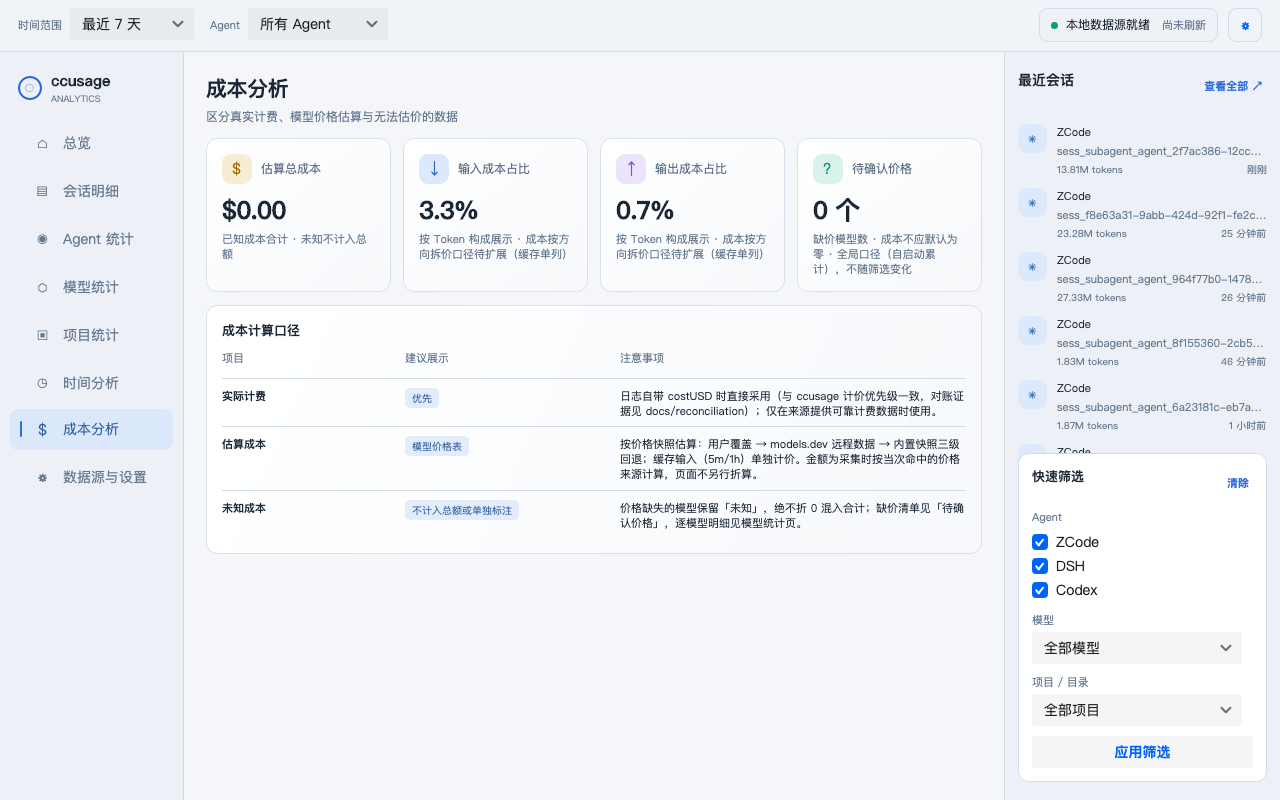
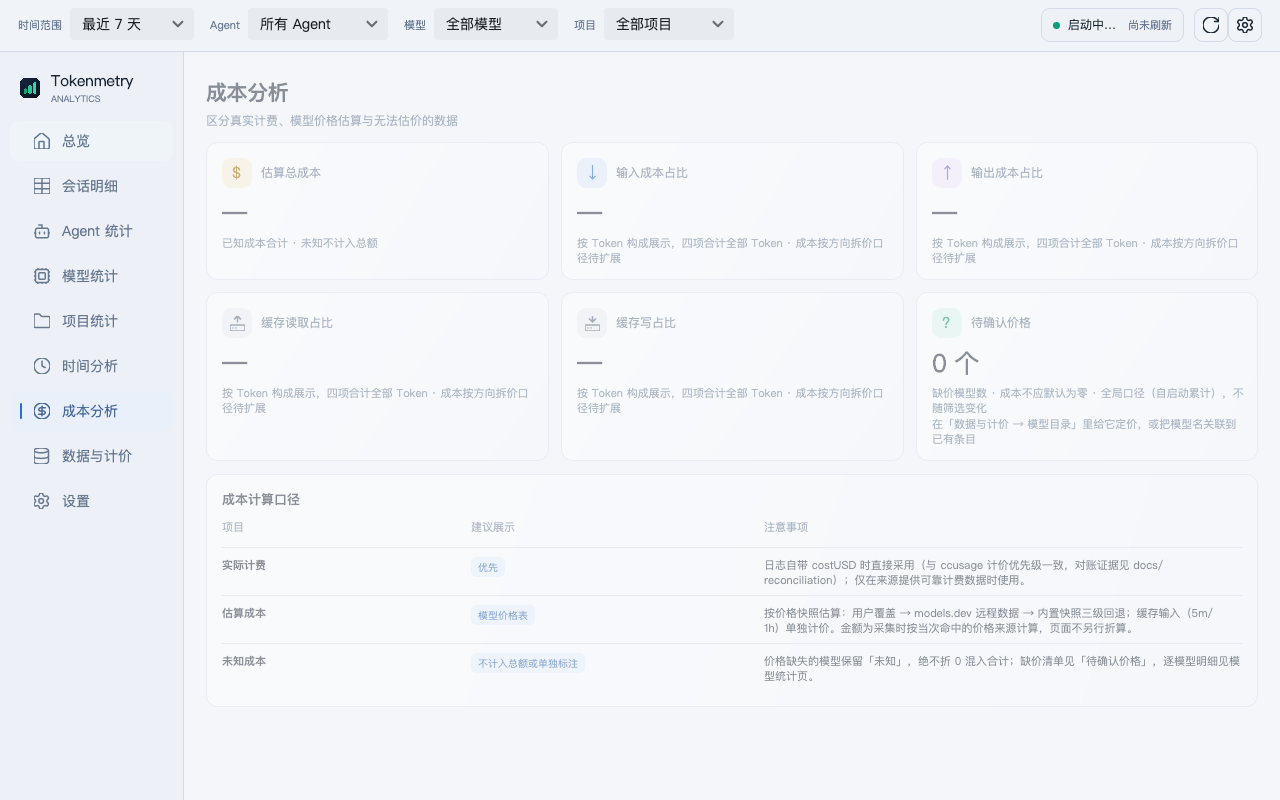
fix: 成本分析页 KPI 六卡改两排三列——单排挤压、首卡标题溢出（Q-007 修正项 1）
用户目检截图反馈：六卡单排太挤，第一张（估算总成本）标题文字超出卡外——1180px
窗口下单排六列卡宽仅 ≈179px，放不下「Estimated total cost」加图标。

- KPI 行改两排三列（RowDefinitions="Auto,Auto" ColumnDefinitions="*,*,*"
  + RowSpacing=12）：第一排 = 估算总成本 + 输入/输出占比，第二排 = 缓存读/写占比 +
  待确认价格；卡宽 ≈179px → ≈370px。数据与口径零变化，纯布局调整；
- 几何契约测试 Cost_kpi_cards_lay_out_in_two_rows_of_three 锁两排三列（Y 两簇 /
  每行 3 卡 / 行内三列 / 第二排在第一排之下 / 卡宽 ≥240——单排回归必跌破）；
- 留档截图 cost-light/dark.png 重生成（time 两张随同一测试顺带刷新为当前 UI 态）。
  踩坑：D-013 记录的 TOKENMETRY_TIMECOST_PREVIEW_DIR 相对路径落在 testhost bin
  目录（testhost cwd ≠ 仓库根），重生成须用绝对路径。

验证：headless TimeCostPagesTests 17/17；全量 1454 Passed / 0 Failed（22 跳过）；
真机观感移交用户。

diff --git a/tests/Tokenmetry.App.Headless.Tests/Shell/TimeCostPagesTests.cs b/tests/Tokenmetry.App.Headless.Tests/Shell/TimeCostPagesTests.cs
@@ -469,6 +469,41 @@ public class TimeCostPagesTests
     }
 
     [AvaloniaFact]
+    public void Cost_kpi_cards_lay_out_in_two_rows_of_three()
+    {
+        // Q-007 修正项 1：单排六列挤压（1180px 窗口卡宽 ≈179px，首卡标题溢出）→ 两排三列。
+        // 几何契约：六卡、Y 顶点聚成两行、每行 3 卡且行内 X 互异、第二排在第一排之下、卡宽不小于
+        // 三列布局下限（≈370px，单排回归时必跌破 240）。
+        var host = CreateCostHost();
+        var window = new Window { Width = 1180, Height = 860, Content = new CostAnalysisView { DataContext = host.Vm } };
+        window.Show();
+        Dispatcher.UIThread.RunJobs();
+        Avalonia.Headless.AvaloniaHeadlessPlatform.ForceRenderTimerTick();
+
+        var bounds = window.GetVisualDescendants().OfType<Border>()
+            .Where(b => b.Classes.Contains("kpi"))
+            .Select(b => b.Bounds)
+            .ToList();
+        Assert.Equal(6, bounds.Count);
+
+        var tops = bounds.Select(b => b.Top).Distinct().OrderBy(t => t).ToList();
+        Assert.Equal(2, tops.Count); // 两行
+        foreach (var top in tops)
+        {
+            var row = bounds.Where(b => b.Top == top).ToList();
+            Assert.Equal(3, row.Count); // 每行 3 卡
+            Assert.Equal(3, row.Select(b => b.Left).Distinct().Count()); // 行内三列
+        }
+
+        var firstRowBottom = bounds.Where(b => b.Top == tops[0]).Max(b => b.Bottom);
+        Assert.True(tops[1] >= firstRowBottom); // 第二排在第一排之下
+        Assert.All(bounds, b => Assert.True(b.Width >= 240, $"kpi 卡宽 {b.Width} 过窄，疑似回归单排布局"));
+
+        window.Close();
+        Dispatcher.UIThread.RunJobs();
+    }
+
+    [AvaloniaFact]
     public void Cost_kpi_follows_aggregated_cost_four_states()
     {
         // (null,true) 全未知 → 「未知」+ 全未知说明（绝不折 0）

diff --git a/docs/kanban/board.md b/docs/kanban/board.md
@@ -17,6 +17,8 @@ Moving a card means updating its row here and `status` in the issue file in the 
 | B-015 | 计价页价格输入固定 InvariantCulture——de-DE 逗号小数输入必被拒 | P3 | S | | |
 | D-017 | 右栏撤除 + 顶栏四维全局筛选 + 会话行元数据升级 | P1 | 2026-10-18 | | |
 
+> 2026-10-24（晚二）：**Q-007 修正项 1——KPI 六卡改两排三列**。用户目检截图反馈单排六卡太挤、首卡（估算总成本）标题溢出卡外。修法：KPI 行 `RowDefinitions="Auto,Auto" ColumnDefinitions="*,*,*"` + RowSpacing=12（第一排 = 总成本 + 输入/输出，第二排 = 缓存读/写 + 待确认价格），1180px 窗口卡宽 ≈179px → ≈370px；几何契约测试锁两排三列（Y 两簇 / 每行 3 卡 / 卡宽 ≥240 防单排回归）。留档截图 cost 明暗重生成（time 两张随同一测试顺带刷新；踩坑：D-013 记的相对路径落 testhost bin 目录，须绝对路径）。headless 17/17，全量见下。真机观感移交用户。
+
 > 2026-10-24（晚）：**Q-007 成本分析页补缓存读/写占比卡收口**。用户反馈「输入成本占比 2.8% + 输出成本占比 0.6% 加不满 100%」——取证：两卡是 Token 构成口径（D-013 方案 b），分母 Σ TotalTokens 含缓存读/写而分子没有，数字本身没错、展示不自洽。修法把「缓存单列说明」升级为「单列成卡」：CostViewModel 占比扩为四元（CreateCompositionShares，分子 ΣInput / ΣOutput / ΣCacheRead / ΣCacheCreation 合计 = 分母），KPI 行 4 卡 → 6 卡（缓存读/写 Neutral 芯 + 新 lucide hard-drive-upload/download 几何，方向相对盘体与输入 ↓ / 输出 ↑ 同构），脚注去「（缓存单列）」过时括注、改「四项合计全部 Token」（F1 舍入 ±0.2pp 不写死 100.0%）。TDD：四项断言编译 RED → GREEN，无基数 "—" 与渲染可见性随补；全量 1452 Passed / 0 Failed（22 跳过）。**并发注记**：与 I-040 修正项 2（PathIcon 居中）同工作区并行——两个新图标几何随其提交（6e3c8e9）落地；其收尾一度把本卡实现文件扫入后 amend 剔除，本卡实现最终独立成提交（卡内如实登记经过）；明暗目检移交用户。
 
 > 2026-10-24：**Q-006 页面滚动面贴窗口边缘收口**。用户反馈（Q-005 验收后）"滚动条总是贴不住最右边"——取证：滚动条贴视口缘无任何空隙（模板查证 + Q-004 headless 契约），22px 空隙唯一来源是 PageHost `Margin="22,22,22,30"` 把页面根 ScrollViewer 整体推入，视口够不到窗口缘；属 Q-004"贴视口"语义与用户"贴窗口"预期的偏差，非回归。修法（macOS 式滚动面语义）：PageHost 外边距归零，滚动面铺满主内容列，页面留白由根滚动面自持——新共享类 `ScrollViewer.page-root`（Padding=22,22,22,30 单一出处；Semi 模板查证透传 Padding 给 presenter、不影响滚动条位置）挂 8 个页面根 SV；会话页无页面级滚动面，头尾/面板逐边自补（列表滚动条贴卡内缘属有意设计）。滑条纵向全程覆盖顶栏底→窗底、横向条贴底缘。TDD：PageScrollEdgeTests 真实 MainWindow 契约，RED 实锤视口 938 vs 960 差 22 → GREEN 贴缘 + 留白自持；踩坑：headless 进场过渡（Y 8→0）不随 RunJobs 走帧（74+8=82 实录），几何断言前须泵渲染帧到落定且泵判定须严于断言精度（74.937 尾段翻车实录 → 收紧 0.01）。全量 1452 Passed / 0 Failed；真机逐页滚动观感移交用户。

diff --git a/docs/kanban/issues/Q-007-cost-share-cache-components.md b/docs/kanban/issues/Q-007-cost-share-cache-components.md
@@ -74,6 +74,18 @@ Expected:
   AppIconHardDriveUpload/Download 资源在其提交内）。
 - 全量 `dotnet test Tokenmetry.sln` 1452 Passed / 0 Failed（22 跳过）。
 
+### 2026-10-24（修正项 1）
+
+- 用户目检截图反馈：单排六卡太挤、首卡（估算总成本）标题文字溢出卡外。修法：KPI 行改**两排三列**
+  （`Grid RowDefinitions="Auto,Auto" ColumnDefinitions="*,*,*"` + RowSpacing=12，第一排 = 总成本 +
+  输入/输出，第二排 = 缓存读/写 + 待确认价格），1180px 窗口卡宽 ≈179px → ≈370px。
+- 几何契约测试 `Cost_kpi_cards_lay_out_in_two_rows_of_three` 锁两排三列（Y 两簇 / 每行 3 卡 /
+  行内三列 / 第二排在下 / 卡宽 ≥240 防回归单排）。
+- 留档截图 cost-light/dark.png 重生成（time 两张随同一测试顺带刷新，内容为当前已提交 UI 态）。
+  踩坑：D-013 记录的 `TOKENMETRY_TIMECOST_PREVIEW_DIR=docs/design` 相对路径落在 testhost bin
+  目录（testhost cwd ≠ 仓库根），须用绝对路径。
+- headless TimeCostPagesTests 17/17；全量见 Verification。
+
 ## Bugs
 
 | ID | Severity | Description | Status | Resolution |
@@ -82,5 +94,5 @@ Expected:
 ## Verification
 
 - Related files: `src/Tokenmetry.App/ViewModels/CostViewModel.cs`, `src/Tokenmetry.App/Views/CostAnalysisView.axaml`, `src/Tokenmetry.App/Localization/Translations.cs`, `tests/Tokenmetry.App.Headless.Tests/Shell/TimeCostPagesTests.cs`（图标几何 `scripts/generate-ui-icons.py` + `src/Tokenmetry.App/Styles/Icons.axaml` 随 6e3c8e9 / I-040 修正项 2 落地）
-- How to run/verify: `dotnet test tests/Tokenmetry.App.Headless.Tests --filter FullyQualifiedName~TimeCostPagesTests`；真机看成本分析页四张占比卡合计。
-- Results: 2026-10-24 headless TimeCostPagesTests 16/16 通过；全量 1452 Passed / 0 Failed（22 跳过）；明暗目检移交用户。
+- How to run/verify: `dotnet test tests/Tokenmetry.App.Headless.Tests --filter FullyQualifiedName~TimeCostPagesTests`；真机看成本分析页四张占比卡合计与两排观感。
+- Results: 2026-10-24 headless TimeCostPagesTests 17/17 通过（含两排三列几何契约）；全量 1454 Passed / 0 Failed（22 跳过）；留档截图 cost-light/dark.png 已重生成，明暗目检移交用户。
